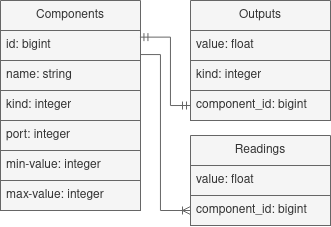
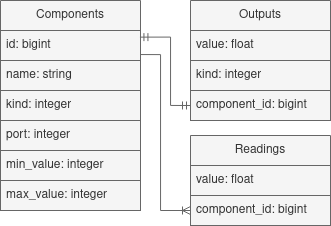
docs: app description closes #14

diff --git a/README.md b/README.md
@@ -1,9 +1,11 @@
-# Navegação
+# Navegação <!-- omit in toc -->
 
-- [Navegação](#navegação)
 - [Sobre](#sobre)
   - [Primeira versão](#primeira-versão)
   - [Banco de dados](#banco-de-dados)
+- [Interface](#interface)
+- [Comunicação com o microcontrolador](#comunicação-com-o-microcontrolador)
+  - [Mensagens](#mensagens)
 - [Em desenvolvimento...](#em-desenvolvimento)
 
 # Sobre
@@ -14,12 +16,10 @@ Esta versão terá menos componentes e demandará menos programação. Abaixo ap
 
 <div align="center">
   <img src="public/simple-version.png">
-  <p>
-    <em>Versão com menos componentes.</em>
-  </p>
+  <p>Versão com menos componentes.</p>
 </div>
 
-Abaixo apresento a descrição de cada um dos componentes desta versão.
+A seguir, apresento a descrição de cada um dos componentes desta versão.
 
 - **App**: O componente App será uma aplicação desenvolvida em Ruby On Rails, e será o principal recurso usado para validar a ideia;
 - **NodeMCU**: Como podemos ver no diagrama, temos um microcontrolador, que neste caso é um NodeMCU,versão Lolin V3;
@@ -33,23 +33,69 @@ Na figura abaixo temos uma das primeiras versões da estrutura do banco de dados
 
 <div align="center">
   <img src="public/simple-version-db.png">
-  <p>
-    <em>Estrutura do banco de dados da aplicação.</em>
-  </p>
+  <p>Estrutura do banco de dados da aplicação.</p>
 </div>
 
 A descrição de cada entidade é dada a seguir.
 
 - Components: Vão identificar os componentes que serão utilizados (ligados no microcontrolador).
     - name: O nome para aquele componente;
-    - kind: O tipo do componente, se é ***atuador** ou **sensor;**
+    - kind: O tipo do componente, se é **atuador** ou **sensor**;
     - port: A porta usada para ligar o componente ao microcontrolador;
-    - min-value: O valor mínimo que pode ser inserido em uma saída do microcontrolador, para o componente;
-    - max-value: O valor máximo que pode ser inserido em uma saída do microcontrolador, para o componente.
+    - min_value: O valor mínimo que pode ser inserido em uma saída do microcontrolador, para o componente;
+    - max_value: O valor máximo que pode ser inserido em uma saída do microcontrolador, para o componente.
 - Outputs: A saída que será enviada para um componente. O componente deverá considerar apenas a última saída.
     - value: O valor de saída para aquele componente.
     - kind: O tipo daquela saída. Existem componentes que só possuem a possibilidade de ligar/desligar, não podendo usar a função **analogWrite**, por exemplo.
 - Readings: Serão os valores lidos pelos sensores.
     - value: O valor lido pelo sensor.
+
+# Interface
+
+A interface é o bloco App, descrito acima. Onde teremos a possibilidade de manipular componentes e suas respectivas saídas, no microcontrolador. A interface não possui muitos detalhes, como cores e outros aspectos de design, não é este o foco. Utilizou-se o Bootstrap 5, para auxiliar na disposição de algumas informações na página.
+
+<div align="center">
+  <img height="210rem" src="public/index-emot-test.png">
+  <p>Pequena página inicial da aplicação.</p>
+</div>
+
+Abaixo a visualização da criação de novos componentes e novas saídas.
+
+<div align="center">
+  <img height="180rem" src="public/new-component.png">
+  <img height="180rem" src="public/new-output.png">
+  <p>Página de criação de componentes e saídas, respectivamente.</p>
+</div>
+
+Algumas validações foram adicionadas na criação de componentes e saídas, evitando erros durante o uso das informações.
+
+# Comunicação com o microcontrolador
+
+A comunicação entre servidor e microcontrolador é feita a partir de mensagens no formato JSON. Inicialmente, o microcontrolador solicita as informações dos componentes que foram cadastrados e realiza as devidas configurações. Verifique a descrição e o código fonte usado no microcontrolador deste projeto, no repositório [emot-mcc](https://github.com/kevendasilva/emot-mcc).
+
+## Mensagens
+
+A seguir, exemplos de mensagens enviadas pelo servidor.
+
+```json
+{
+  "id": 1,
+  "name": "LED",
+  "kind": "actuator",
+  "port": 13,
+  "min_value": 0,
+  "max_value": 255
+}
+```
+
+e, para a saída:
+
+```json
+{
+  "value": 255,
+  "kind": "digital",
+  "component_id": 1
+}
+```
 
 # Em desenvolvimento...
